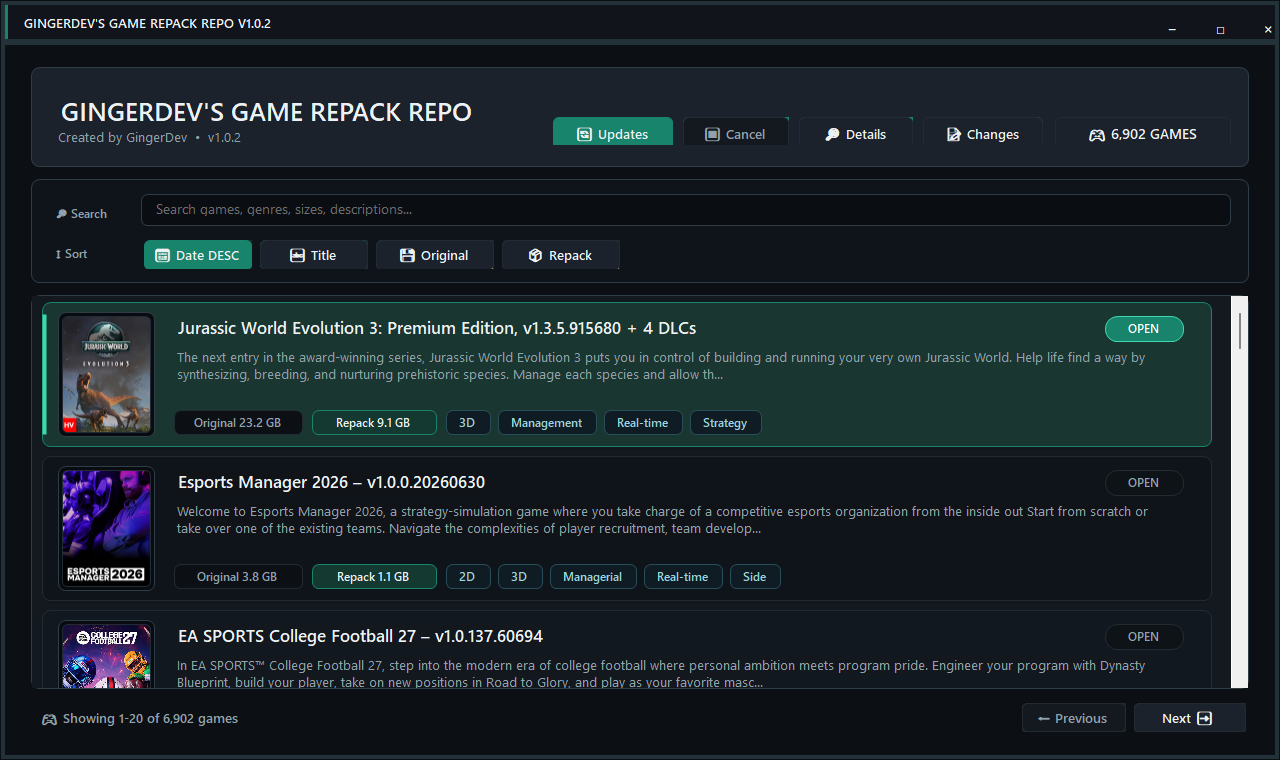
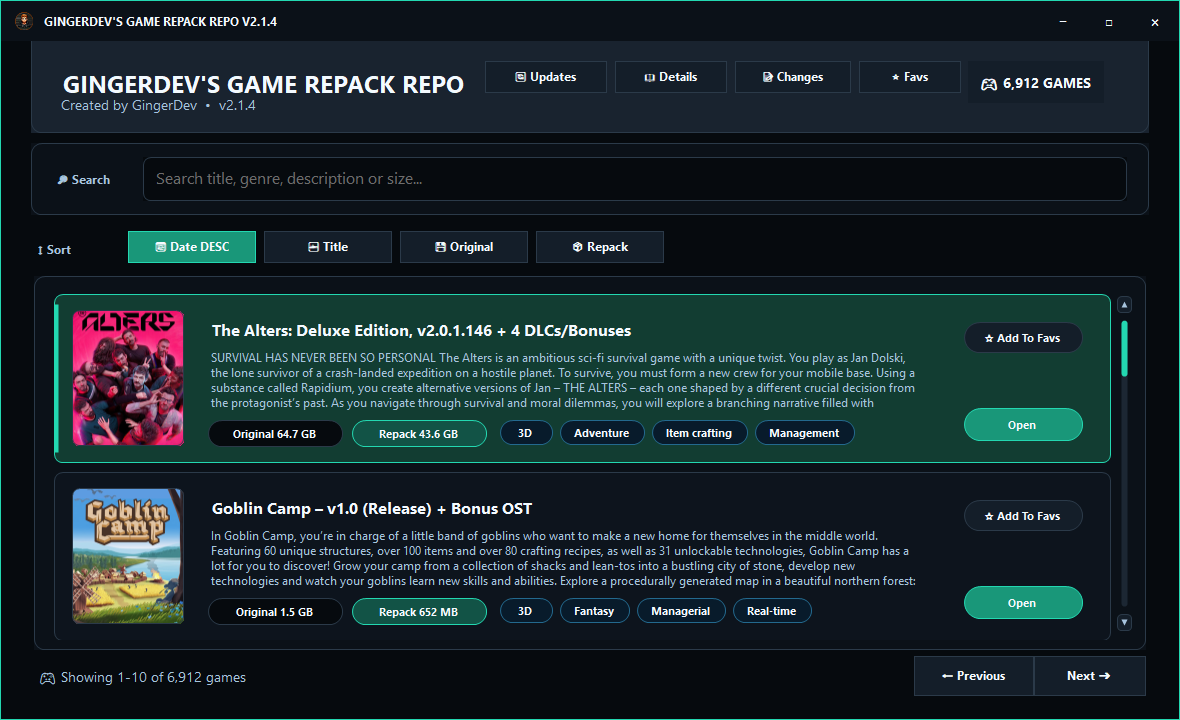
Release v2.1.4

diff --git a/README.md b/README.md
@@ -8,7 +8,7 @@
   <img src="https://img.shields.io/badge/Platform-Windows-1f6feb?style=for-the-badge&amp;logo=windows&amp;logoColor=white" alt="Platform">
   <img src="https://img.shields.io/badge/Framework-.NET%209.0-512bd4?style=for-the-badge&amp;logo=dotnet&amp;logoColor=white" alt="Framework">
   <img src="https://img.shields.io/badge/Language-C%23%20WinForms-0f766e?style=for-the-badge&amp;logo=visualstudio&amp;logoColor=white" alt="Language">
-  <img src="https://img.shields.io/badge/Version-2.1.3-22c55e?style=for-the-badge&amp;logo=github&amp;logoColor=white" alt="Version">
+  <img src="https://img.shields.io/badge/Version-2.1.4-22c55e?style=for-the-badge&amp;logo=github&amp;logoColor=white" alt="Version">
   <img src="https://img.shields.io/badge/License-GPL--3.0-22c55e?style=for-the-badge&amp;logo=gnu&amp;logoColor=white" alt="License">
 </p>
 
@@ -17,7 +17,7 @@
 </p>
 
 <p align="center">
-  GingerDev's Game Repack Repo is a standalone C# Windows Forms app with a custom dark UI, animated first-run splash screen, local caching, cover art, sortable game cards, and a compact details view.
+  GingerDev's Game Repack Repo is a standalone C# Windows Forms app with a custom dark UI, animated first-run splash screen, local caching, cover art, sortable game cards, tray support, and a compact details view.
 </p>
 
 <p align="center">
@@ -61,6 +61,10 @@
   <tr>
     <td><strong>Local Library</strong></td>
     <td>Loads from the AppData <code>list.txt</code> on startup and can append new games during update checks.</td>
+  </tr>
+  <tr>
+    <td><strong>Tray Mode</strong></td>
+    <td>Closing the window minimises the app to the Windows tray. Double-click the tray icon to restore, or use the tray menu for Open, silent Update, and Exit.</td>
   </tr>
   <tr>
     <td><strong>Version Check</strong></td>
@@ -152,6 +156,16 @@
   If GitHub is unreachable or no update is available, the updater simply opens the installed version.
 </p>
 
+<h2>Tray Mode</h2>
+
+<p>
+  Closing the main window keeps the app running in the Windows tray so the library can be restored quickly. Double-click the tray icon to reopen the app, or right-click it for <strong>Open</strong>, <strong>Update</strong>, and <strong>Exit</strong>.
+</p>
+
+<p>
+  <strong>Update</strong> performs a quiet background refresh of the local game list. <strong>Exit</strong> fully closes the app.
+</p>
+
 <h2>First Run</h2>
 
 <p>
@@ -171,7 +185,7 @@
   </tr>
   <tr>
     <td><strong>Current version</strong></td>
-    <td><code>2.1.3</code></td>
+    <td><code>2.1.4</code></td>
   </tr>
   <tr>
     <td><strong>Recommended download</strong></td>

diff --git a/CHANGELOG.md b/CHANGELOG.md
@@ -5,11 +5,21 @@
 </p>
 
 <p align="center">
-  <img src="https://img.shields.io/badge/Current%20Version-2.1.3-17846b?style=for-the-badge&logo=github&logoColor=white" alt="Current version">
+  <img src="https://img.shields.io/badge/Current%20Version-2.1.4-17846b?style=for-the-badge&logo=github&logoColor=white" alt="Current version">
   <img src="https://img.shields.io/badge/Runtime%20Data-%25APPDATA%25%5CGingerDev%5CGame%20Repack%20Repo-284e5a?style=for-the-badge" alt="Runtime data">
 </p>
 
 ---
+
+## Version 2.1.4
+
+![Tray](https://img.shields.io/badge/Tray-284e5a?style=flat-square)
+![Updates](https://img.shields.io/badge/Updates-284e5a?style=flat-square)
+![UX](https://img.shields.io/badge/UX-284e5a?style=flat-square)
+
+> Closing the main window now minimises the app to the Windows tray instead of ending the session.  
+> Double-clicking the tray icon restores the game library.  
+> Added a tray context menu with Open, silent background Update, and Exit actions.
 
 ## Version 2.1.3
 